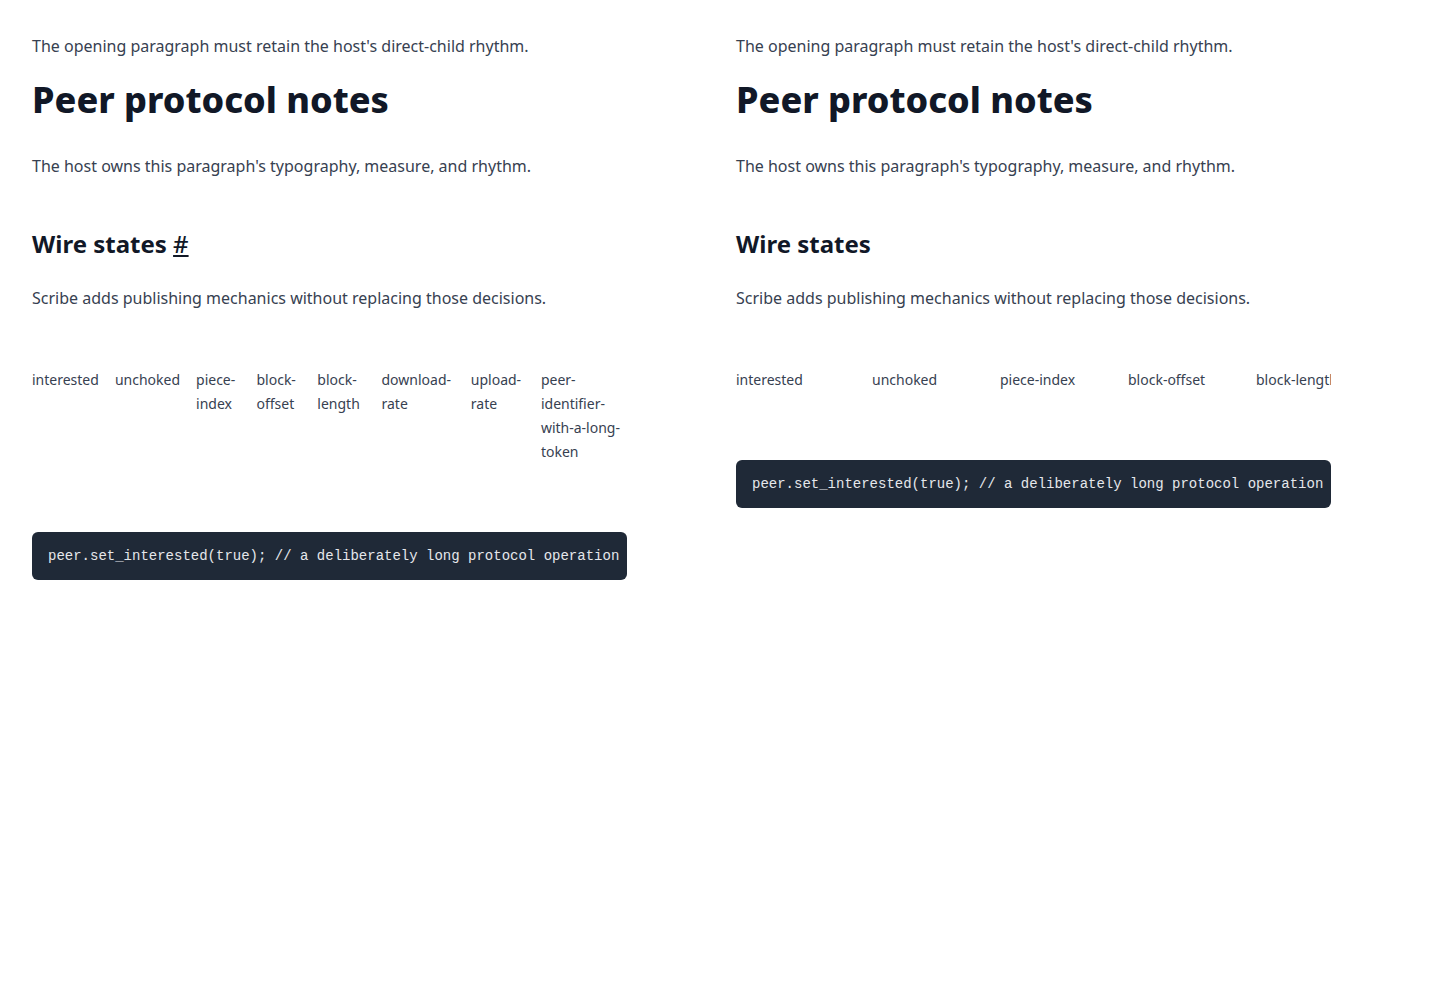
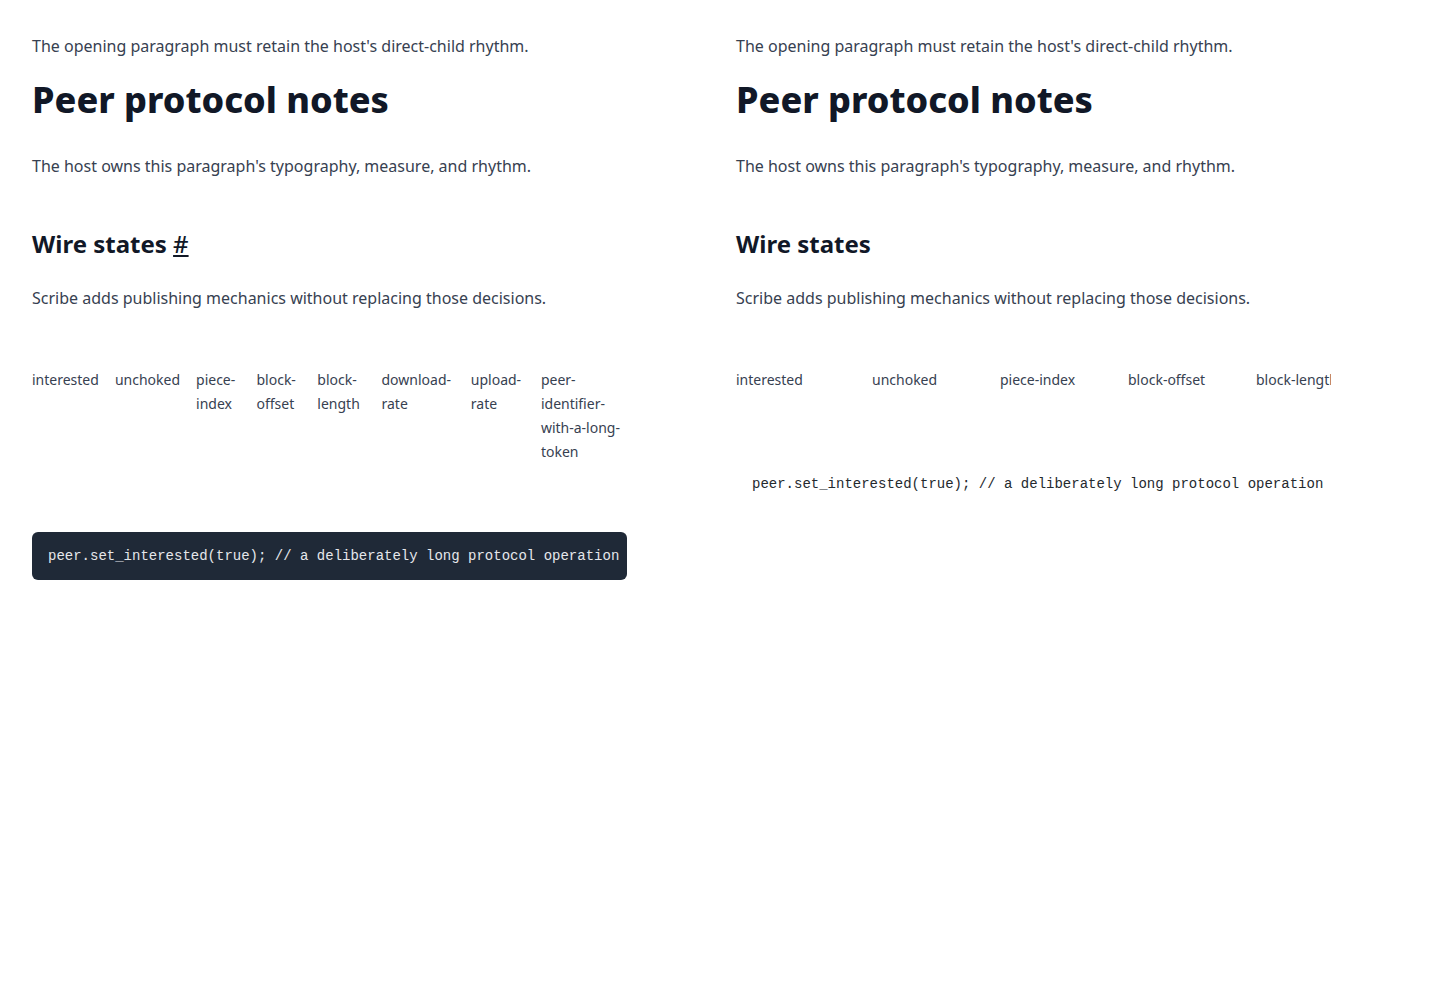
chore(release): prepare Scribe 0.1.0-alpha.5

Changed region(s): [[0.5, 0.434, 0.9375, 0.527]]

diff --git a/tests/browser/style-modes.spec.ts b/tests/browser/style-modes.spec.ts
@@ -85,13 +85,6 @@ for (const mode of ["foundation", "tailwind-v3", "tailwind-v4"] as const) {
     expect(await after.evaluate((node) => Number(node.matches(".scribe")) + node.querySelectorAll(".scribe").length)).toBe(1);
     await expect(after.locator(".scribe-heading-anchor")).toHaveAttribute("href", "#wire-states");
 
-    if (mode.startsWith("tailwind")) {
-      const beforePre = before.locator(".scribe-code-frame__pre");
-      const afterPre = after.locator(".scribe-code-frame__pre");
-      await expect(afterPre).toHaveCSS("color", await beforePre.evaluate((node) => getComputedStyle(node).color));
-      await expect(afterPre).toHaveCSS("background-color", await beforePre.evaluate((node) => getComputedStyle(node).backgroundColor));
-    }
-
     await expect(after.locator(".scribe-table-scroll")).toHaveCSS("overflow-x", "auto");
     await expect(after.locator(".scribe-code-frame__pre")).toHaveCSS("overflow-x", "auto");
     const overflow = await page.evaluate(() => ({
@@ -116,6 +109,45 @@ test("default mode supplies a complete editorial scale for an otherwise raw arti
   await page.setViewportSize({ width: 390, height: 844 });
   expect(await page.evaluate(() => document.documentElement.scrollWidth <= document.documentElement.clientWidth)).toBe(true);
 });
+
+for (const mode of ["tailwind-v3", "tailwind-v4"] as const) {
+  for (const themeCase of [
+    {
+      name: "light host",
+      query: "theme=light",
+      foreground: "rgb(36, 41, 46)",
+      background: "rgb(255, 255, 255)"
+    },
+    {
+      name: "ancestor dark host",
+      query: "theme=dark",
+      foreground: "rgb(225, 228, 232)",
+      background: "rgb(36, 41, 46)"
+    },
+    {
+      name: "explicitly light publication inside a dark host",
+      query: "theme=dark&publication-theme=light",
+      foreground: "rgb(36, 41, 46)",
+      background: "rgb(255, 255, 255)"
+    },
+    {
+      name: "explicitly dark publication inside a light host",
+      query: "theme=light&publication-theme=dark",
+      foreground: "rgb(225, 228, 232)",
+      background: "rgb(36, 41, 46)"
+    }
+  ] as const) {
+    test(`${mode} keeps Shiki foreground and background paired for a ${themeCase.name}`, async ({ page }) => {
+      await page.goto(`/?fixture=continuity&style=${mode}&${themeCase.query}`);
+
+      const article = page.locator("[data-continuity='after']");
+      const pre = article.locator(".scribe-code-frame__pre");
+      await expect(pre).toHaveCSS("color", themeCase.foreground);
+      await expect(pre).toHaveCSS("background-color", themeCase.background);
+      await expect(pre.locator("span").first()).toHaveCSS("color", themeCase.foreground);
+    });
+  }
+}
 
 test("reports the visual-ownership boundary for established hosts", async ({ page }, testInfo) => {
   const modes = ["foundation", "tailwind-v3", "tailwind-v4"] as const;

diff --git a/packages/styles/tailwind.css b/packages/styles/tailwind.css
@@ -9,8 +9,25 @@
 
   :where(.scribe .scribe-code-frame__pre) {
     max-width: 100%;
-    color: var(--shiki-light, var(--tw-prose-pre-code, var(--scribe-foreground)));
-    background-color: var(--tw-prose-pre-bg, transparent) !important;
+    color: var(--shiki-light, var(--tw-prose-pre-code, var(--scribe-foreground))) !important;
+    background-color: var(--shiki-light-bg, var(--tw-prose-pre-bg, transparent)) !important;
+  }
+
+  @media (prefers-color-scheme: dark) {
+    :where(.scribe:not([data-theme="light"]) .scribe-code-frame__pre) {
+      color: var(--shiki-dark, var(--shiki-light, var(--tw-prose-pre-code, var(--scribe-foreground)))) !important;
+      background-color: var(--shiki-dark-bg, var(--shiki-light-bg, var(--tw-prose-pre-bg, transparent))) !important;
+    }
+  }
+
+  :where(.dark .scribe:not([data-theme="light"]) .scribe-code-frame__pre),
+  :where(.scribe[data-theme="dark"] .scribe-code-frame__pre) {
+    color: var(--shiki-dark, var(--shiki-light, var(--tw-prose-pre-code, var(--scribe-foreground)))) !important;
+    background-color: var(--shiki-dark-bg, var(--shiki-light-bg, var(--tw-prose-pre-bg, transparent))) !important;
+  }
+
+  :where(.dark .scribe:not([data-theme="light"]) .shiki span) {
+    color: var(--shiki-dark, var(--shiki-light, inherit));
   }
 
   :where(.scribe .scribe-code-frame__pre code)::before,

diff --git a/tests/integration/vite/src/main.tsx b/tests/integration/vite/src/main.tsx
@@ -1,4 +1,4 @@
-import { StrictMode, type ComponentProps } from "react";
+import { StrictMode, type ComponentProps, type CSSProperties } from "react";
 import { createRoot } from "react-dom/client";
 import { Banner, Publication, createScribeComponents } from "@scribe-sdk/react";
 import "../../../fixtures/hosts.css";
@@ -14,6 +14,7 @@ const theme = params.get("theme") === "dark" ? "dark" : "light";
 const host = params.get("host") === "branded" ? "branded" : "neutral";
 const hostile = params.get("hostile") === "true";
 const fixture = params.get("fixture") ?? "article";
+const publicationTheme = params.get("publication-theme");
 
 async function loadLinkedStyle(href: string): Promise<void> {
   await new Promise<void>((resolve, reject) => {
@@ -55,6 +56,13 @@ function BannerWithoutImage() {
 }
 
 function ContinuityContent() {
+  const shikiStyle = {
+    "--shiki-light": "#24292e",
+    "--shiki-dark": "#e1e4e8",
+    "--shiki-light-bg": "#fff",
+    "--shiki-dark-bg": "#24292e"
+  } as CSSProperties;
+
   return (
     <>
       <p>The opening paragraph must retain the host's direct-child rhythm.</p>
@@ -66,7 +74,7 @@ function ContinuityContent() {
         <table><tbody><tr>{["interested", "unchoked", "piece-index", "block-offset", "block-length", "download-rate", "upload-rate", "peer-identifier-with-a-long-token"].map((value) => <td key={value}>{value}</td>)}</tr></tbody></table>
       </div>
       <figure className="scribe-code-frame">
-        <pre className="scribe-code-frame__pre"><code>peer.set_interested(true); // a deliberately long protocol operation remains internally scrollable</code></pre>
+        <pre className="scribe-code-frame__pre shiki" style={shikiStyle}><code><span style={shikiStyle}>peer.set_interested(true); // a deliberately long protocol operation remains internally scrollable</span></code></pre>
       </figure>
     </>
   );
@@ -74,12 +82,13 @@ function ContinuityContent() {
 
 function ContinuityFixture() {
   const proseClass = styleMode.startsWith("tailwind") ? "prose" : "custom-prose";
+  const explicitTheme = publicationTheme === "light" || publicationTheme === "dark" ? publicationTheme : undefined;
   return (
-    <main className="fixture-continuity">
+    <main className={`fixture-continuity${theme === "dark" ? " dark" : ""}`}>
       <div className="fixture-continuity__pair">
         <section className={proseClass} data-continuity="before"><ContinuityContent /></section>
         {styleMode.startsWith("tailwind") ? (
-          <section className={proseClass} data-continuity="after"><Publication><ContinuityContent /></Publication></section>
+          <section className={proseClass} data-continuity="after"><Publication data-theme={explicitTheme}><ContinuityContent /></Publication></section>
         ) : (
           <Publication className={proseClass} data-continuity="after"><ContinuityContent /></Publication>
         )}

diff --git a/tests/release/changesets.test.ts b/tests/release/changesets.test.ts
@@ -29,7 +29,7 @@ describe("Changesets release policy", () => {
 
     expect(pre.mode).toBe("pre");
     expect(pre.tag).toBe("alpha");
-    expect(pre.changesets).toEqual(["bright-pages-publish", "calm-sites-publish", "steady-studios-close"]);
+    expect(pre.changesets).toEqual(["bright-pages-publish", "calm-sites-publish", "quiet-code-contrasts", "steady-studios-close"]);
     expect(pre.initialVersions).toEqual(Object.fromEntries(publicPackages.map((name) => [name, "0.1.0-alpha.1"])));
   });
 
@@ -53,12 +53,12 @@ describe("Changesets release policy", () => {
     ));
     const versions = new Set(manifests.map((manifest) => manifest.version));
 
-    expect(versions).toEqual(new Set(["0.1.0-alpha.4"]));
+    expect(versions).toEqual(new Set(["0.1.0-alpha.5"]));
     expect(manifests.every((manifest) => manifest.license === "Apache-2.0")).toBe(true);
     expect(manifests.find((manifest) => manifest.name === "@scribe-sdk/cli")?.dependencies).toMatchObject({
-      "@scribe-sdk/mdx": "0.1.0-alpha.4",
-      "@scribe-sdk/react": "0.1.0-alpha.4",
-      "@scribe-sdk/styles": "0.1.0-alpha.4"
+      "@scribe-sdk/mdx": "0.1.0-alpha.5",
+      "@scribe-sdk/react": "0.1.0-alpha.5",
+      "@scribe-sdk/styles": "0.1.0-alpha.5"
     });
     expect(JSON.stringify(manifests)).not.toContain("workspace:");
   });
@@ -74,6 +74,10 @@ describe("Changesets release policy", () => {
       expect(changelog).toContain(`## 0.1.0-alpha.4`);
       if (directory === "mdx" || directory === "cli") {
         expect(changelog).toContain("Restore strict React 19 typechecking for Vite MDX configurations");
+      }
+      expect(changelog).toContain(`## 0.1.0-alpha.5`);
+      if (directory === "styles") {
+        expect(changelog).toContain("Keep compile-time Shiki foreground and background colors paired in Tailwind mode");
       }
       expect(changelog).not.toContain("beta");
     }

diff --git a/tests/release/package-manifests.test.ts b/tests/release/package-manifests.test.ts
@@ -4,7 +4,7 @@ import { join } from "node:path";
 import { describe, expect, it } from "vitest";
 
 const root = process.cwd();
-const version = "0.1.0-alpha.4";
+const version = "0.1.0-alpha.5";
 const packageNames = ["react", "styles", "mdx", "cli"] as const;
 const packageFiles = {
   react: ["dist", "README.md", "SKILL.md", "LICENSE"],

diff --git a/packages/cli/CHANGELOG.md b/packages/cli/CHANGELOG.md
@@ -1,5 +1,14 @@
 # @scribe-sdk/cli
 
+## 0.1.0-alpha.5
+
+### Patch Changes
+
+- Updated dependencies
+  - @scribe-sdk/styles@0.1.0-alpha.5
+  - @scribe-sdk/react@0.1.0-alpha.5
+  - @scribe-sdk/mdx@0.1.0-alpha.5
+
 ## 0.1.0-alpha.4
 
 ### Patch Changes

diff --git a/packages/styles/CHANGELOG.md b/packages/styles/CHANGELOG.md
@@ -1,5 +1,11 @@
 # @scribe-sdk/styles
 
+## 0.1.0-alpha.5
+
+### Patch Changes
+
+- Keep compile-time Shiki foreground and background colors paired in Tailwind mode, including Tailwind's ancestor `.dark` convention and explicit publication-theme overrides, so prose code backgrounds cannot make highlighted code unreadable.
+
 ## 0.1.0-alpha.4
 
 ## 0.1.0-alpha.3

diff --git a/.changeset/quiet-code-contrasts.md b/.changeset/quiet-code-contrasts.md
@@ -1,0 +1,5 @@
+---
+"@scribe-sdk/styles": patch
+---
+
+Keep compile-time Shiki foreground and background colors paired in Tailwind mode, including Tailwind's ancestor `.dark` convention and explicit publication-theme overrides, so prose code backgrounds cannot make highlighted code unreadable.

diff --git a/README.md b/README.md
@@ -67,7 +67,7 @@ For a Tailwind Typography site, keep the existing `.prose` wrapper and load Scri
 @plugin "@tailwindcss/typography";
 ```
 
-Scribe ships no fonts and does not clone Tailwind Typography.
+Scribe ships no fonts and does not clone Tailwind Typography. In Tailwind mode, compiled Shiki foreground and background colors remain paired so the host's prose code background cannot make highlighted code unreadable. Tailwind's conventional ancestor `.dark` class selects the dark pair; an explicit `data-theme="light"` or `data-theme="dark"` on `Publication` takes precedence.
 
 ## Initialize an existing project
 

diff --git a/SKILL.md b/SKILL.md
@@ -170,7 +170,7 @@ Prefer the host aliases Scribe already inherits: `--font-body`, `--font-heading`
 
 Override documented `--scribe-*` tokens on `.scribe` or an ancestor only when the host needs an explicit mapping. Common adjustments are body, heading and code fonts; background, foreground, muted, border and accent colors; radius; content width; wide width; and gutter. Do not bundle fonts or create a theme system.
 
-Scribe supplies color-scheme-aware styles. The host owns the runtime light/dark toggle. Set `data-theme="light"` or `data-theme="dark"` on `Publication` only when integrating with an existing host toggle.
+Scribe supplies color-scheme-aware styles. The host owns the runtime light/dark toggle. Tailwind mode recognizes Tailwind's conventional ancestor `.dark` class and keeps Shiki's foreground/background pair coherent. Set `data-theme="light"` or `data-theme="dark"` on `Publication` only when integrating with another host toggle; an explicit publication theme takes precedence.
 
 ## Validate
 

diff --git a/packages/cli/README.md b/packages/cli/README.md
@@ -67,7 +67,7 @@ For a Tailwind Typography site, keep the existing `.prose` wrapper and load Scri
 @plugin "@tailwindcss/typography";
 ```
 
-Scribe ships no fonts and does not clone Tailwind Typography.
+Scribe ships no fonts and does not clone Tailwind Typography. In Tailwind mode, compiled Shiki foreground and background colors remain paired so the host's prose code background cannot make highlighted code unreadable. Tailwind's conventional ancestor `.dark` class selects the dark pair; an explicit `data-theme="light"` or `data-theme="dark"` on `Publication` takes precedence.
 
 ## Initialize an existing project
 

diff --git a/packages/cli/SKILL.md b/packages/cli/SKILL.md
@@ -170,7 +170,7 @@ Prefer the host aliases Scribe already inherits: `--font-body`, `--font-heading`
 
 Override documented `--scribe-*` tokens on `.scribe` or an ancestor only when the host needs an explicit mapping. Common adjustments are body, heading and code fonts; background, foreground, muted, border and accent colors; radius; content width; wide width; and gutter. Do not bundle fonts or create a theme system.
 
-Scribe supplies color-scheme-aware styles. The host owns the runtime light/dark toggle. Set `data-theme="light"` or `data-theme="dark"` on `Publication` only when integrating with an existing host toggle.
+Scribe supplies color-scheme-aware styles. The host owns the runtime light/dark toggle. Tailwind mode recognizes Tailwind's conventional ancestor `.dark` class and keeps Shiki's foreground/background pair coherent. Set `data-theme="light"` or `data-theme="dark"` on `Publication` only when integrating with another host toggle; an explicit publication theme takes precedence.
 
 ## Validate
 